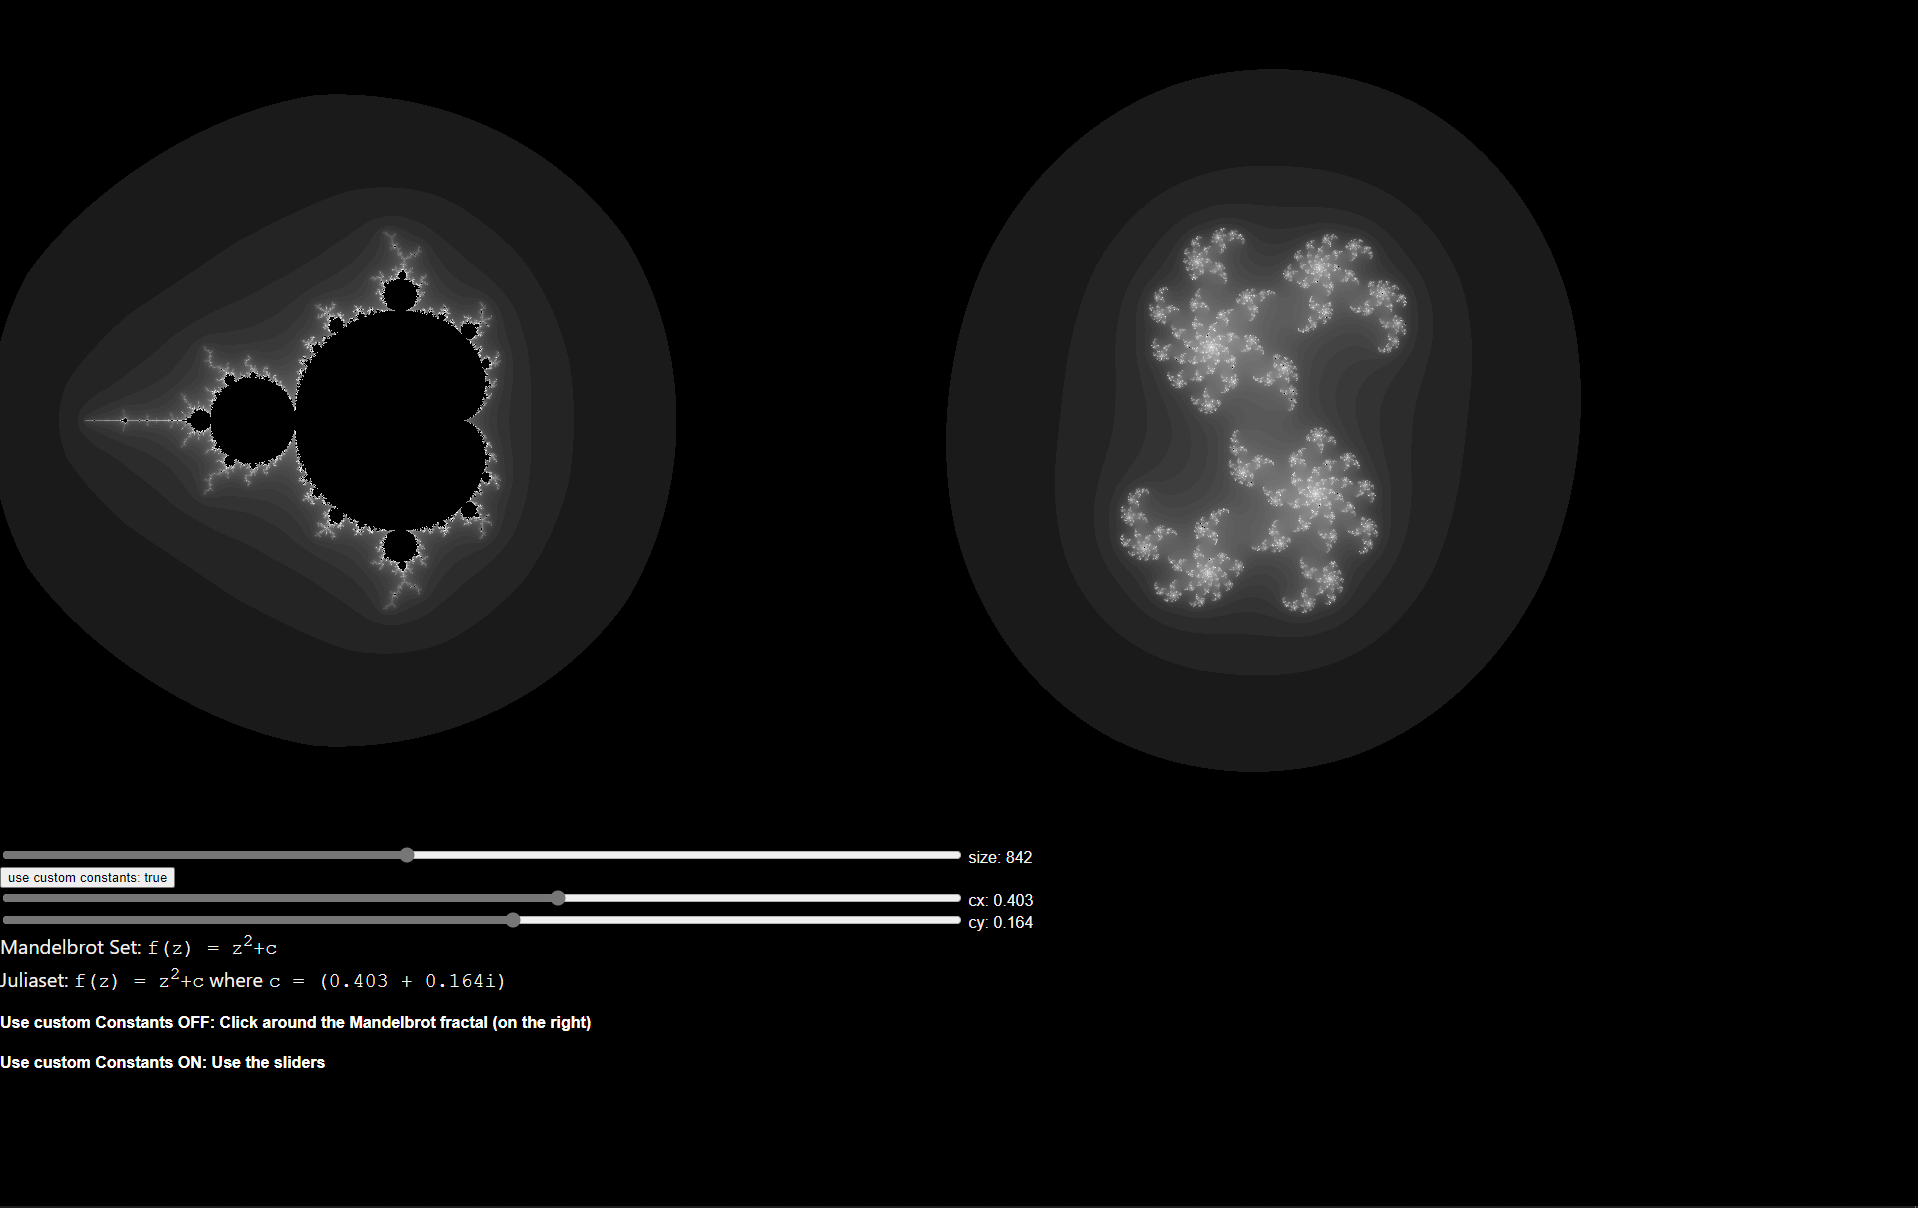
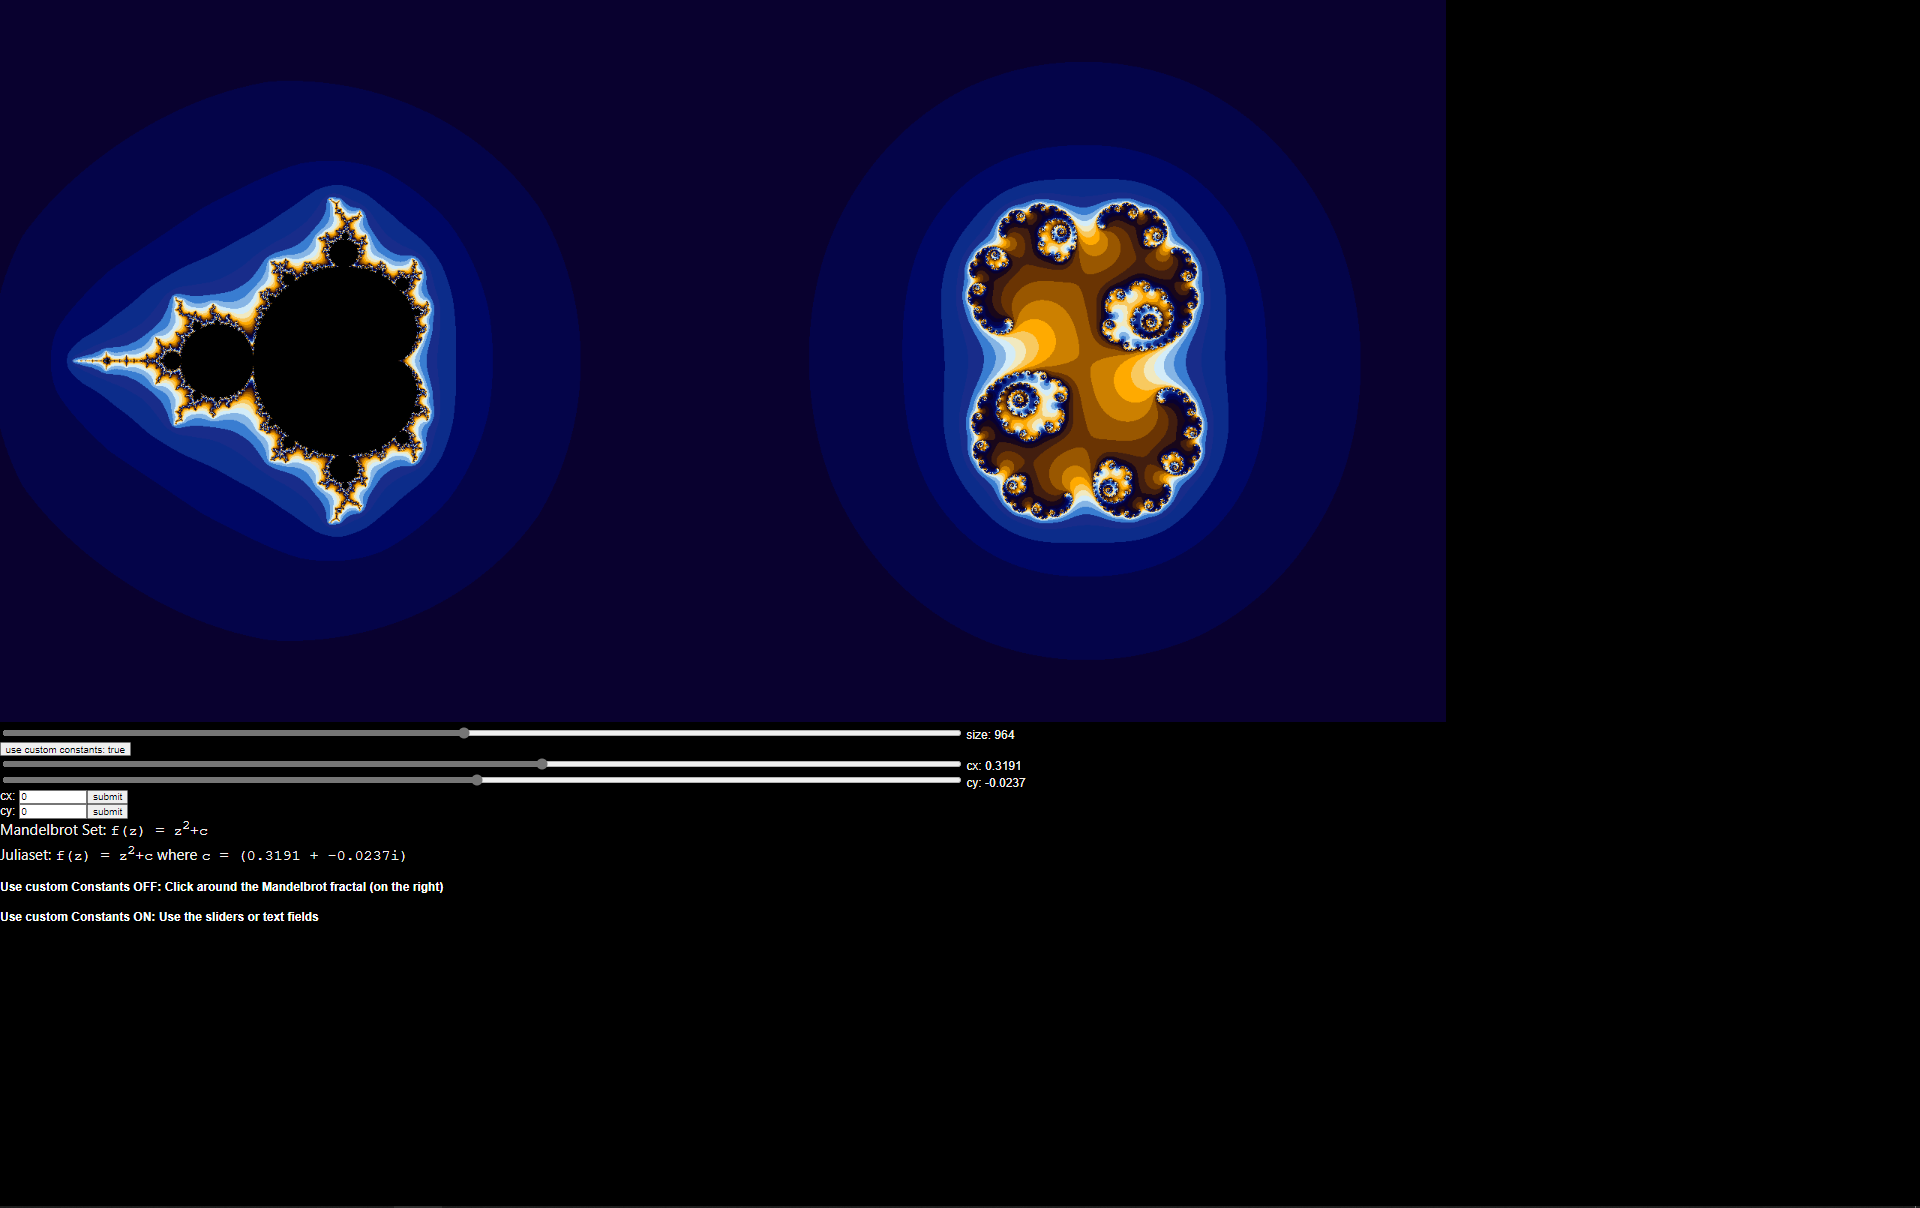
add colormap to fractals

diff --git a/pages/generative-art/fractals.html b/pages/generative-art/fractals.html
@@ -47,8 +47,10 @@
     <script src="https://cdn.jsdelivr.net/gh/gpujs/gpu.js/dist/gpu-browser.min.js"></script>
     <br><input type="range" min="2" max="2000" value="500" id="size"> <span>size: <span id="sizevalue"></span></span>
     <br><button type="button" onclick="toggleCustomConstants()">use custom constants: <span id="usecustom"></span></button>
-    <br><input type="range" min="-2" max="2" step="0.001" value="0" id="cx"> <span>cx: <span id="cxvalue"></span></span>
-    <br><input type="range" min="-2" max="2" step="0.001" value="0" id="cy"> <span>cy: <span id="cyvalue"></span></span>
+    <br><input type="range" min="-2" max="2" step="0.0001" value="0" id="cx"> <span>cx: <span id="cxvalue"></span></span>
+    <br><input type="range" min="-2" max="2" step="0.0001" value="0" id="cy"> <span>cy: <span id="cyvalue"></span></span>
+    <br><span>cx: </span><input type="number" value="0" min="-2" max="2" step="0.0001" id="cxn"><span><button type="button" onclick="updateCxBtn()">submit</button></span>
+    <br><span>cy: </span><input type="number" value="0" min="-2" max="2" step="0.0001" id="cyn"><span><button type="button" onclick="updateCyBtn()">submit</button></span>
     <br><p>Mandelbrot Set: <span class="math">f(z) = z<sup>2</sup>+c</span></p>
     <p>Juliaset: <span class="math">f(z) = z<sup>2</sup>+c</span> where <span class="math" id="juliasetC">c = (0 + 0i)</span></p>
     <h4>Use custom Constants OFF: Click around the Mandelbrot fractal (on the right)</h4>
@@ -70,12 +72,34 @@
         mandelbrotCanvas.width = juliasetCanvas.width = width;
         mandelbrotCanvas.height = juliasetCanvas.height = height;
 
+        var ccx = 0;
+        var ccy = 0;
+
+        var colormap = [
+            [66, 30, 15],
+            [25, 7, 26],
+            [9, 1, 47],
+            [4, 4, 73],
+            [0, 7, 100],
+            [12, 44, 138],
+            [24, 44, 138],
+            [57, 125, 209],
+            [134, 181, 229], 
+            [211, 236, 248],
+            [241, 233, 191],
+            [248, 201, 95],
+            [255, 170, 0],
+            [204, 128, 0],
+            [153, 87, 0],
+            [106, 52, 3]
+        ];
+
         const gpu = new GPU.GPU();
 
-        const renderFractal = gpu.createKernel(function(width, height, scale, cx, cy, jset) {
+        const renderFractal = gpu.createKernel(function(width, height, scale, cx, cy, jset, cmap, cl) {
             var x = this.thread.x;
             var y = this.thread.y;
-            var a = x / width * (scale * 2) - scale;
+            var a = x / width * (scale * 2) - scale;   // FOR ZOOOMING (?): * zoom + camera offset x/y
             var b = y / height * (scale * 2) - scale;
             var ca = a;
             var cb = b;
@@ -94,13 +118,31 @@
                 }
                 n++;
             }
-            var nsmooth = n + 1 - Math.log2(Math.log2(Math.abs(a * a + b * b)) / 2);
-            var col = Math.sqrt(nsmooth / 100) * 255;
             if (n == 100) {
-                col = 0;
+                return [0, 0, 0];
             }
+            var nsmooth = (n + 1 - Math.log2(Math.log2(Math.abs(a * a + b * b)) / 2));
+            // var col = Math.sqrt(nsmooth / 100) * 255;
+            // if (n == 100) {
+            //     col = 0;
+            // }
+            // return [col, col, col];
+            
+            // FOR INTERPOLATION:
 
-            return [col, col, col];
+            // nsmooth = nsmooth / 100;
+            // var i = Math.round(nsmooth * (cl - 2));
+            // var ratio = nsmooth * (cl - 1) - i;
+            // var colr = Math.floor(cmap[i + 1][0] * ratio + cmap[i][0] * (1 - ratio));
+            // var colg = Math.floor(cmap[i + 1][1] * ratio + cmap[i][1] * (1 - ratio));
+            // var colb = Math.floor(cmap[i + 1][2] * ratio + cmap[i][2] * (1 - ratio));
+            // return [colr, colg, colb];
+
+            // FOR MODULO
+
+            var i = Math.floor(nsmooth + 2) % 16; // + 2 for coloring purposes
+            return [cmap[i][0], cmap[i][1], cmap[i][2]];
+
         }).setDynamicOutput(true).setOutput([width, height]);
 
         function toImageData(image) {
@@ -119,16 +161,16 @@
         }
 
         function renderMandelbrot() {
-            const mandelbrot = renderFractal(width, height, scale, 0, 0, false);
+            const mandelbrot = renderFractal(width, height, scale, 0, 0, false, colormap, colormap.length);
             mandelbrotCtx.putImageData(toImageData(mandelbrot), 0, 0);
         }
 
         function renderJuliaset(normX, normY) {
-            const juliaset = renderFractal(width, height, scale, normX, normY, true);
+            const juliaset = renderFractal(width, height, scale, normX, normY, true, colormap, colormap.length);
             juliasetCtx.putImageData(toImageData(juliaset), 0, 0);
         }
         
-        renderMandelbrot(0, 0);
+        renderMandelbrot();
         renderJuliaset(0, 0);
 
         mandelbrotCanvas.addEventListener("click", (evt) => {
@@ -146,6 +188,9 @@
         function toggleCustomConstants() {
             usecustom = !usecustom;
             document.getElementById("usecustom").innerHTML = usecustom;
+            if (usecustom) {
+                renderJuliaset(ccx, ccy);
+            }
         }
 
         document.getElementById("usecustom").innerHTML = false;
@@ -155,19 +200,25 @@
         document.getElementById("cx").max = scale;
         document.getElementById("cy").min = -scale;
         document.getElementById("cy").max = scale;
+        document.getElementById("cxn").min = -scale;
+        document.getElementById("cxn").max = scale;
+        document.getElementById("cyn").min = -scale;
+        document.getElementById("cyn").max = scale;
 
         document.getElementById("cx").oninput = function() {
             document.getElementById("cxvalue").innerHTML = this.value;
             if (usecustom) {
-                renderJuliaset(this.value, document.getElementById("cy").value);
-                document.getElementById("juliasetC").innerHTML = "c = (" + this.value + " + " + document.getElementById("cy").value + "i)";
+                ccx = this.value;
+                renderJuliaset(ccx, ccy);
+                document.getElementById("juliasetC").innerHTML = "c = (" + ccx + " + " + ccy + "i)";
             }
         }
         document.getElementById("cy").oninput = function() {
             document.getElementById("cyvalue").innerHTML = this.value;
             if (usecustom) {
-                renderJuliaset(document.getElementById("cx").value, this.value);
-                document.getElementById("juliasetC").innerHTML = "c = (" + document.getElementById("cx").value + " + " + this.value + "i)";
+                ccy = this.value;
+                renderJuliaset(ccx, ccy);
+                document.getElementById("juliasetC").innerHTML = "c = (" + ccx + " + " + ccy + "i)";
             }
         }
         document.getElementById("size").oninput = function() {
@@ -177,7 +228,20 @@
             mandelbrotCanvas.height = juliasetCanvas.height = height;
             renderFractal.setOutput([width, height]);
             renderMandelbrot();
-            renderJuliaset(document.getElementById("cx").value, document.getElementById("cy").value);
+            renderJuliaset(ccx, ccy);
+        }
+
+        function updateCxBtn() {
+            ccx = document.getElementById("cxn").value;
+            if (usecustom) {
+                renderJuliaset(ccx, ccy);
+            }
+        }
+        function updateCyBtn() {
+            ccy = document.getElementById("cyn").value;
+            if (usecustom) {
+                renderJuliaset(ccx, ccy);
+            }
         }
 
     </script>
